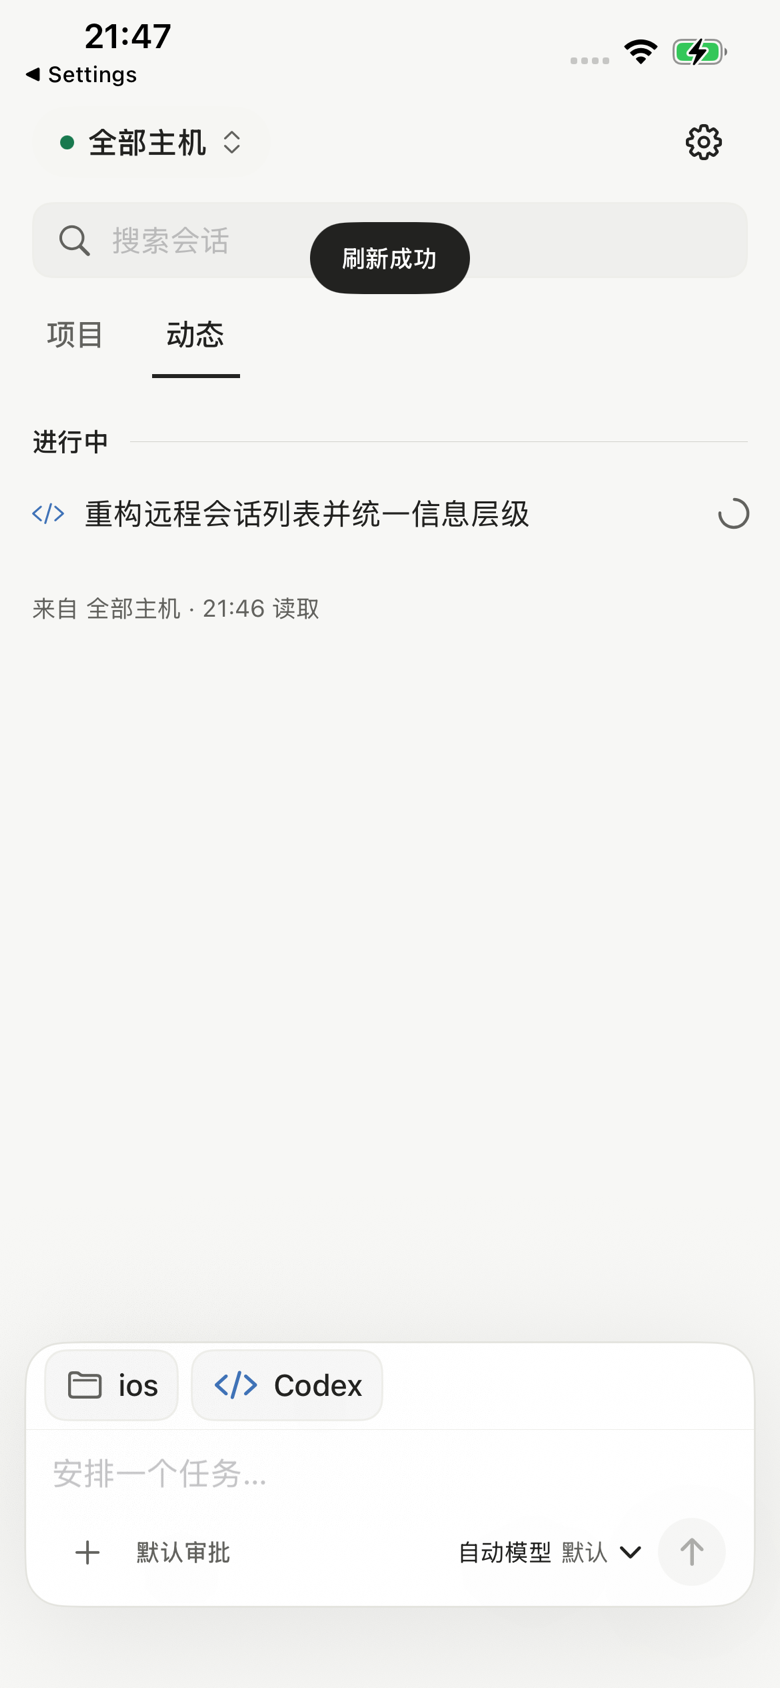
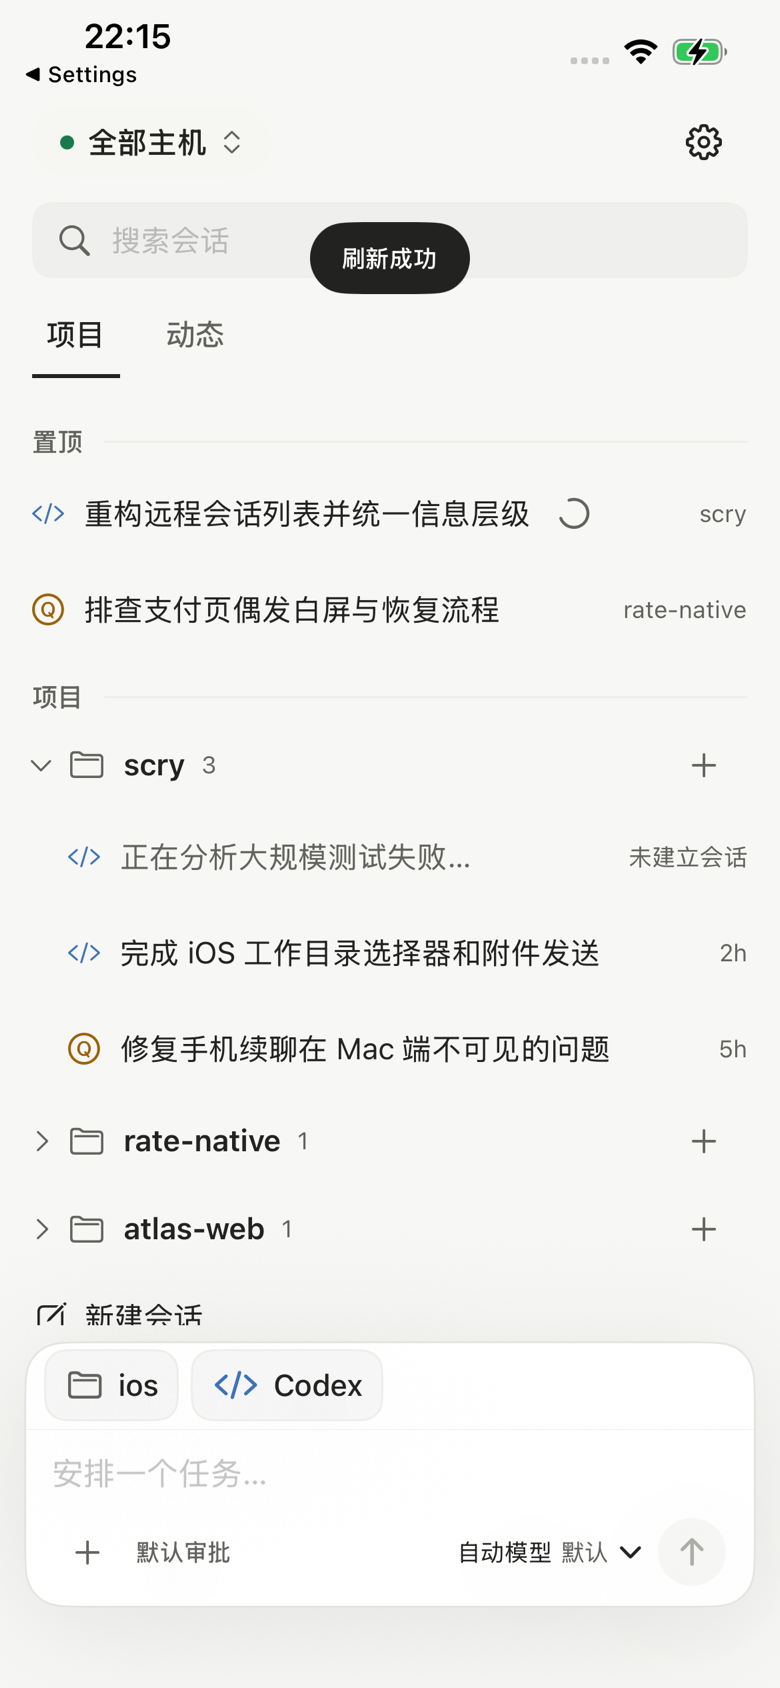
fix(ios): address R2 time formatting and section review

diff --git a/apps/ios/ScryRemote/HomeSessions.swift b/apps/ios/ScryRemote/HomeSessions.swift
@@ -190,12 +190,12 @@ struct HomeSessions: View {
   private var projects: some View {
     LazyVStack(alignment: .leading, spacing: 0) {
       if !catalog.pinned.isEmpty {
-        section(ConnectionCopy.sectionPinned)
+        section(ConnectionCopy.sectionPinned, directory: true)
         ForEach(Array(catalog.pinned.enumerated()), id: \.element.id) { index, row in
           sessionRow(row, index: index, pinned: true)
         }
       }
-      section(ConnectionCopy.tabProjects)
+      section(ConnectionCopy.tabProjects, directory: true)
       if catalog.rows.isEmpty {
         Text(ConnectionCopy.noRecent).font(Typography.rowTitle).foregroundStyle(Palette.dim).padding(.vertical, 16)
       }
@@ -258,10 +258,10 @@ struct HomeSessions: View {
       .onAppear { seenRows.insert(row.id) }
   }
 
-  private func section(_ title: String) -> some View {
+  private func section(_ title: String, directory: Bool = false) -> some View {
     HStack(spacing: 10) {
-      Text(title).font(Typography.groupLabel).foregroundStyle(Palette.fg)
-      Rectangle().fill(Palette.border2).frame(height: 0.5)
+      Text(title).font(Typography.groupLabel).foregroundStyle(directory ? Palette.dim2 : Palette.fg)
+      Rectangle().fill(directory ? Palette.border3 : Palette.border2).frame(height: 1)
     }.padding(.top, 12).padding(.bottom, 4)
   }
   private func projectName(_ cwd: String) -> String { cwd.split(separator: "/").last.map(String.init) ?? cwd }

diff --git a/apps/ios/ScryRemote/HomeCopy.swift b/apps/ios/ScryRemote/HomeCopy.swift
@@ -3,6 +3,18 @@ import Foundation
 // Copy touched by the R2 home/composer redesign. Shared legacy copy stays in
 // ConnectionCopy.swift; keeping this extension separate avoids growing that file.
 extension ConnectionCopy {
+  // Port of src/renderer/format.ts relTime. Static copy, not a ticking Date Text.
+  static func relTime(_ milliseconds: Double, now: Double = Date().timeIntervalSince1970 * 1_000) -> String {
+    let elapsed = now - milliseconds
+    if elapsed < 3_600_000 { return "\(Int(max(1, (elapsed / 60_000).rounded())))m" }
+    let hours = elapsed / 3_600_000
+    if hours < 24 { return "\(Int(hours.rounded()))h" }
+    let days = hours / 24
+    if days < 7 { return "\(Int(days.rounded()))d" }
+    if days < 30 { return "\(Int((days / 7).rounded()))w" }
+    return "\(Int((days / 30).rounded()))mo"
+  }
+
   static let tabActivity = "动态"
   static let homeNeedsReply = "需要回复"
   static let sectionRunning = "进行中"

diff --git a/apps/ios/ScryRemote/SessionRow.swift b/apps/ios/ScryRemote/SessionRow.swift
@@ -59,7 +59,7 @@ struct SessionRowView: View {
       } else if !openable {
         Text(ConnectionCopy.noSession).font(Typography.meta).foregroundStyle(Palette.dim2)
       } else if !showsProject {
-        Text(Date(timeIntervalSince1970: session.ts / 1_000), style: .relative)
+        Text(ConnectionCopy.relTime(session.ts))
           .font(Typography.meta).foregroundStyle(Palette.dim2).lineLimit(1)
       }
     }

diff --git a/apps/ios/Checks/home-sections.py b/apps/ios/Checks/home-sections.py
@@ -13,12 +13,15 @@ import tempfile
 root = Path(__file__).resolve().parents[3]
 parser = argparse.ArgumentParser()
 parser.add_argument('--source', type=Path, default=root / 'apps/ios/ScryRemote/HomeSessions.swift')
+parser.add_argument('--copy-source', type=Path, default=root / 'apps/ios/ScryRemote/HomeCopy.swift')
 args = parser.parse_args()
 source = args.source.read_text()
 projection = source[source.index('struct HomeSessionCatalog:'):source.index('struct HomeSessions:')]
+copy = args.copy_source.read_text()
 fixture = r'''
 import Foundation
 
+enum ConnectionCopy {}
 enum HomeTab { case projects, activity }
 struct ExecutionTargetScope: Equatable { let id: String; let label: String }
 struct Session: Equatable {
@@ -66,12 +69,25 @@ check(search.rows.map(\.id) == ["title", "cwd", "provider", "host"], "search tit
 check(search.running.map(\.id) == search.rows.map(\.id), "search filters activity too")
 let large = HomeSessionCatalog(rows: (0..<45).map { row("\($0)") }, query: "", activity: { _ in .waiting })
 check(large.waiting.count == 45, "projection retains overflow for explicit UI count")
-print("\(count) R2 projection checks passed")
+// Expected values follow Mac relTime: choose the unit before rounding.
+// In particular, 23.6 hours stays 24h, and 6.9 days stays 7d.
+let now = 1_800_000_000_000.0
+let timeCases: [(Double, String)] = [
+  (-60, "1m"), (0, "1m"), (59 * 60, "59m"), (59.5 * 60, "60m"),
+  (3_600, "1h"), (23.6 * 3_600, "24h"), (24 * 3_600, "1d"),
+  (6.9 * 86_400, "7d"), (7 * 86_400, "1w"), (29 * 86_400, "4w"),
+  (30 * 86_400, "1mo"), (45 * 86_400, "2mo")
+]
+for (seconds, expected) in timeCases {
+  check(ConnectionCopy.relTime(now - seconds * 1_000, now: now) == expected,
+        "relTime \(seconds)s → \(expected)")
+}
+print("\(count) R2 projection/time checks passed")
 '''
 with tempfile.TemporaryDirectory(prefix='scry-home-sections-') as tmp:
     tmp = Path(tmp)
     main = tmp / 'main.swift'
-    main.write_text(fixture + projection + checks)
+    main.write_text(fixture + projection + copy + checks)
     binary = tmp / 'home-sections'
     subprocess.run(['xcrun', 'swiftc', str(main), '-o', str(binary)], check=True)
     subprocess.run(['codesign', '--force', '--sign', os.environ.get('SCRY_IOS_CHECK_SIGN_IDENTITY', '-'), str(binary)], check=True)

diff --git a/docs/handoff/ios-redesign-2026-10-25/reports/R2.md b/docs/handoff/ios-redesign-2026-10-25/reports/R2.md
@@ -94,9 +94,9 @@
 xcodebuild build-for-testing \
   -project apps/ios/ScryRemote.xcodeproj -scheme ScryRemote \
   -configuration Debug -sdk iphoneos \
-  -destination 'id=00008110-000808180E8B801E' \
+  -destination "id=$DEVICE" \
   -derivedDataPath /tmp/scry-r2-device-build \
-  DEVELOPMENT_TEAM=7USHN8Q8JL CODE_SIGN_STYLE=Automatic \
+  DEVELOPMENT_TEAM="$TEAM" CODE_SIGN_STYLE=Automatic \
   PRODUCT_BUNDLE_IDENTIFIER=com.scry.remote.local
 ```
 
